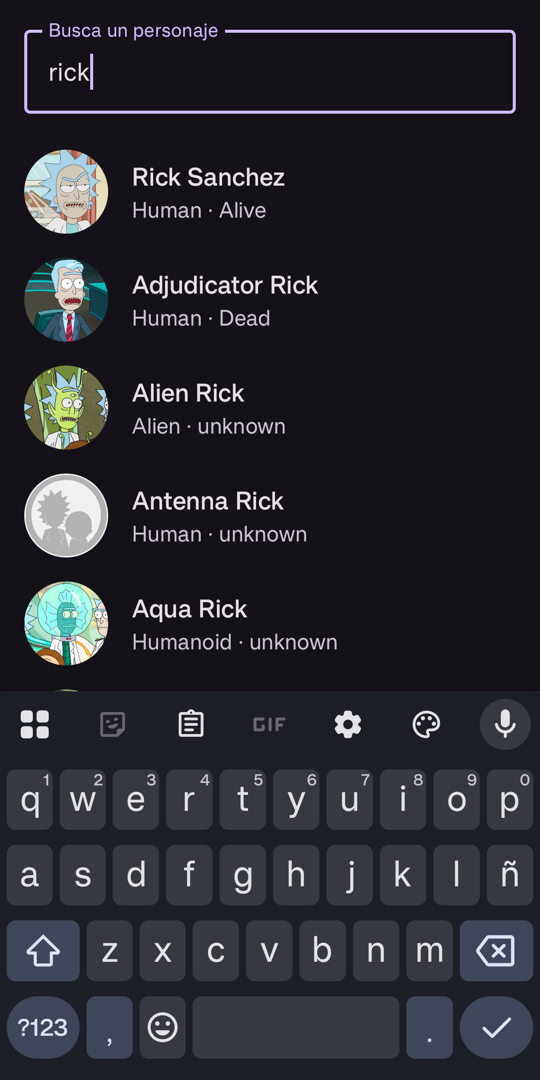
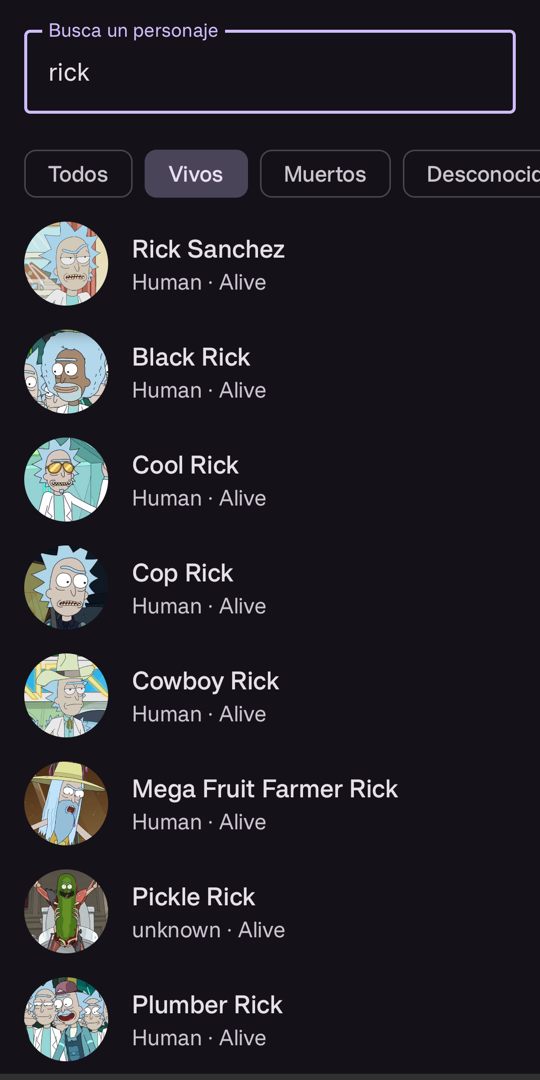
Captura de búsqueda con el filtro de estado visible
La captura anterior era de antes de los chips; la nueva enseña la query
rick con el filtro Vivos activo, que es la feature más reciente.

diff --git a/README.md b/README.md
@@ -7,7 +7,7 @@ estado (vivos, muertos, desconocido) y muestra su detalle, con arquitectura en c
 cancelación de búsquedas en curso, caché con expiración y tests unitarios.
 
 <p>
-  <img src="docs/capturas/busqueda.png" width="270" alt="Pantalla de búsqueda con resultados para la query rick" />
+  <img src="docs/capturas/busqueda.png" width="270" alt="Pantalla de búsqueda con la query rick, el filtro Vivos activo y sus resultados" />
   <img src="docs/capturas/detalle.png" width="270" alt="Pantalla de detalle de Rick Sanchez" />
 </p>
 
